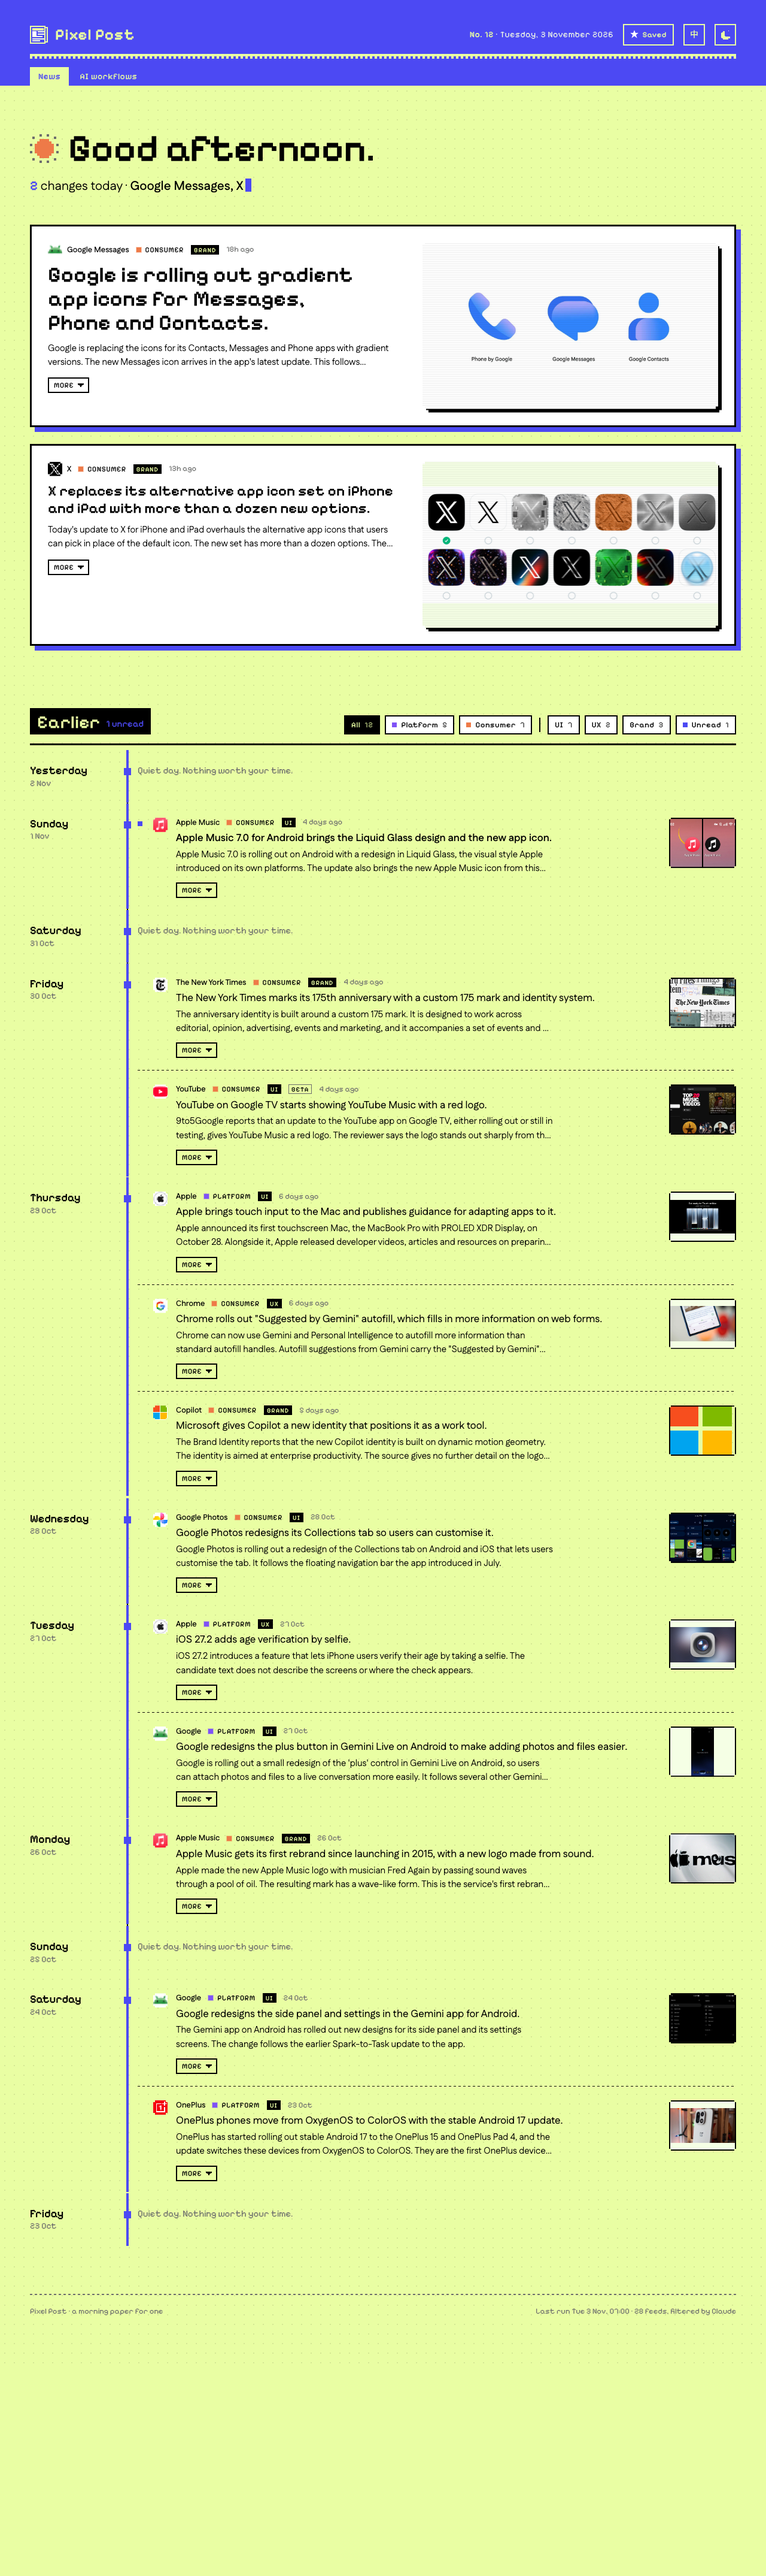
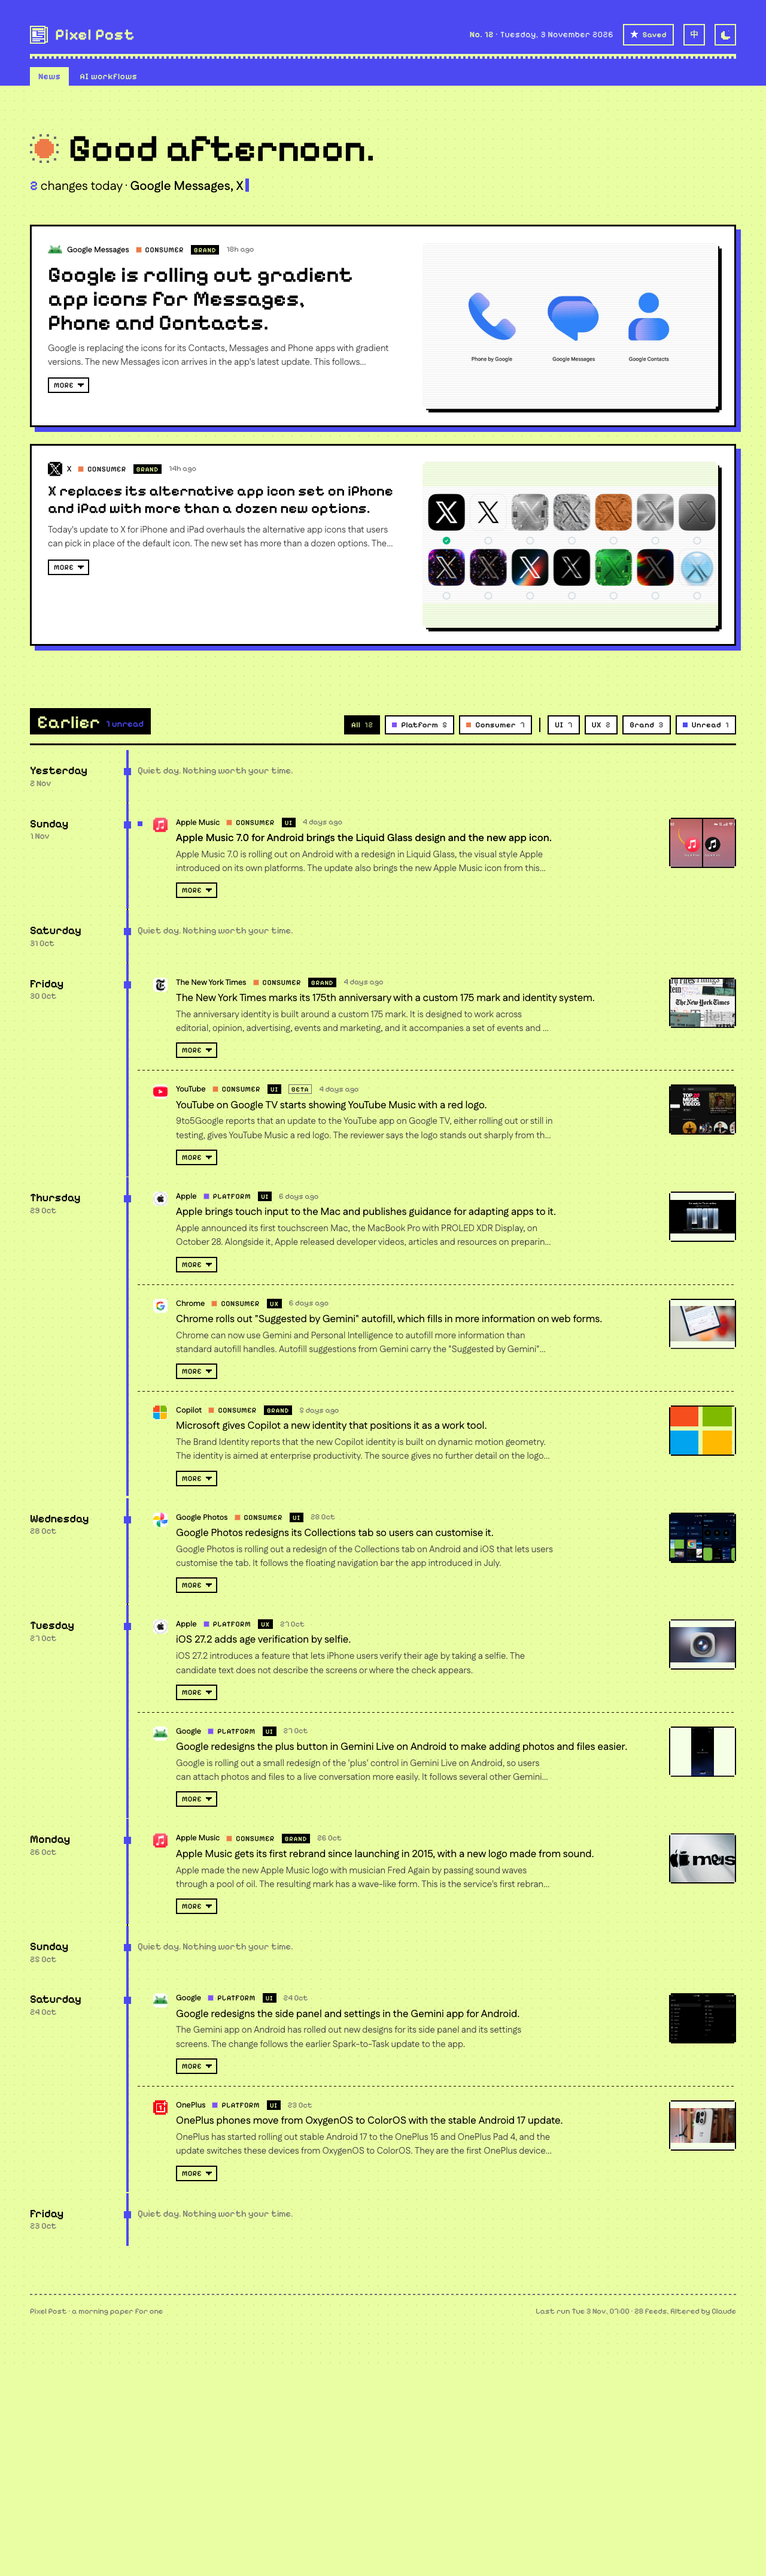
Thinner cursor; white and black reading text instead of lime and green; bigger stars on phones

diff --git a/site/styles.css b/site/styles.css
@@ -3,6 +3,7 @@
    a lime page, an indigo masthead band, black rules and borders, white cards with hard indigo pixel shadows,
    and every story the same card. Dark: black page, lime type and borders, the masthead a lime band with black type,
    the same indigo accent for lines, fills and shadows; small accent labels sit on indigo chips so they stay readable.
+   Reading text is plain black and dark grey in light mode, white and light grey in dark mode.
    All text is at least 4.5:1 against what is behind it. */
 
 :root {
@@ -12,6 +13,8 @@
   --ink: #000000;
   --ink-2: #000000; /* descriptions and summaries */
   --ink-3: #6d6e6d; /* grey: dates, counts, sources. 4.7:1 on lime, 5.1:1 on white */
+  --text: #000000; /* reading text: why it matters, notes */
+  --text-2: #474747; /* summaries and descriptions. 8.5:1 on lime, 9.3:1 on white */
   --line: #000000;
   --accent: #4c49f3; /* indigo, 5.4:1 on lime */
   --accent-ink: var(--accent); /* one accent everywhere: text, cursor, timeline */
@@ -51,6 +54,8 @@
   --ink: #e9fea3; /* lime, 19:1 */
   --ink-2: #f5ffe5; /* cream */
   --ink-3: #9cb8ad; /* sage, 9.9:1 */
+  --text: #ffffff; /* reading text in white, not the lime of headlines */
+  --text-2: #c4c4c4; /* 8:1 on the dark grey cards */
   --line: #e9fea3;
   --accent: #4c49f3; /* indigo, as in light mode: lines, fills, shadows. Too dark for text on black (3.6:1), */
   --accent-ink: #e9fea3; /* so accent labels become indigo chips with lime type, and accent text is lime */
@@ -340,6 +345,7 @@ button {
   font-size: 14px;
   background: var(--card);
   box-shadow: inset 2px 0 0 var(--accent);
+  color: var(--text);
 }
 .note-text[hidden] {
   display: none;
@@ -563,7 +569,7 @@ button {
 .d-why {
   margin: 0;
   font-size: 14px;
-  color: var(--ink-2);
+  color: var(--text-2);
 }
 .d-note {
   margin: 10px 0 0;
@@ -571,6 +577,7 @@ button {
   font-size: 14px;
   background: var(--card);
   box-shadow: inset 2px 0 0 var(--accent);
+  color: var(--text);
 }
 .d-note b {
   margin-right: 8px;
@@ -669,7 +676,7 @@ button {
 }
 .cursor {
   display: inline-block;
-  width: 0.5em;
+  width: 0.3em;
   height: 1.05em;
   margin-left: 3px;
   vertical-align: -0.15em;
@@ -816,7 +823,7 @@ button {
 
 .why {
   margin: 18px 0 0;
-  color: var(--ink);
+  color: var(--text);
   max-width: 40em;
 }
 .why b {
@@ -954,7 +961,7 @@ button {
 .card .what {
   margin: 10px 0 0;
   font-size: 15px;
-  color: var(--ink-2);
+  color: var(--text-2);
 }
 
 
@@ -993,6 +1000,7 @@ button {
 .pattern p {
   margin: 0;
   font: 500 clamp(18px, 2vw, 22px)/1.35 var(--display);
+  color: var(--text);
 }
 .pattern .label {
   display: block;
@@ -1019,7 +1027,7 @@ button {
 .quiet p {
   margin: 0;
   max-width: 34em;
-  color: var(--ink-2);
+  color: var(--text-2);
 }
 .quiet strong {
   display: block;
@@ -1257,12 +1265,12 @@ button {
 .row .what {
   margin: 4px 0 0;
   max-width: 42em;
-  color: var(--ink-2);
+  color: var(--text-2);
   font-size: 15px;
   transition: color 0.2s var(--step);
 }
 .row.open .what {
-  color: var(--ink-2);
+  color: var(--text-2);
 }
 /* Thumbnails get the same black border as the cards. */
 .row-thumb {
@@ -1327,6 +1335,7 @@ button {
   font: 500 15px/1.4 var(--display);
   background: repeating-conic-gradient(color-mix(in srgb, var(--accent) 8%, transparent) 0 25%, transparent 0 50%) 0 0 / 8px 8px;
   box-shadow: inset 0 0 0 1px var(--line);
+  color: var(--text);
 }
 .day-pattern b {
   color: var(--accent-ink);
@@ -1535,7 +1544,7 @@ body[data-view='workflows'] .workflows {
 .wf-facts dd {
   margin: 0;
   font-size: 15px;
-  color: var(--ink);
+  color: var(--text);
 }
 .wf-read {
   display: flex;
@@ -1602,7 +1611,7 @@ html:lang(zh-CN) .view-tab {
 [data-theme='dark'] .d-note b {
   display: inline-block;
   padding: 3px 6px 2px;
-  color: #e9fea3;
+  color: #ffffff;
   background: #4c49f3;
 }
 /* Labels that sit on their own line stay on their own line, as wide as their words. */
@@ -1615,7 +1624,7 @@ html:lang(zh-CN) .view-tab {
 }
 [data-theme='dark'] .hello-summary .count {
   padding: 0 4px;
-  color: #e9fea3;
+  color: #ffffff;
   background: #4c49f3;
 }
 /* "1 unread" sits inside the lime Earlier label: indigo on lime reads at 5.4:1. */
@@ -1711,6 +1720,9 @@ html:lang(zh-CN) .row-title {
   }
   .digest-btn .label {
     display: none;
+  }
+  .star::before {
+    font-size: 18px;
   }
   .digest {
     width: 100vw;

diff --git a/README.md b/README.md
@@ -189,4 +189,4 @@ src/compare.ts        picks each item's picture (and before/after pairs)
 
 **Saved.** Every item has a **star** and a **note**: type it, then **Save note** (inside the box) or Cmd+Enter; the box closes and the note shows under the item, with **Edit note** to change it. The **Saved** button (top right) lists the week's starred items with their notes and a **Remove** button, a week at a time. Stars and notes are kept in your browser only, so they don't follow you to another device. Share links sent before November 2026 still open, read-only.
 
-English by default, with a **中 / EN** switch (top right) that changes everything on the page, including dates and each item's write-up, and is remembered in your browser. Items written before the Chinese write-ups were added (before 30 Oct 2026) stay in English. Light by default, with a dark mode toggle next to it. Each item has a **UI**, **UX** or **Brand** label, and the archive can be filtered by it. Pixelify Sans for headlines, Fustat for reading. Colours come from one palette, used boldly: a lime page (#E9FEA3) with black type and thick black rules; the masthead is an indigo band (#4C49F3) with lime type; every story today is the same white card with a black border and a hard indigo pixel shadow, the first one with a larger headline. A card shows its headline and a two-line summary; More opens why it matters, the sources and Save / Note, with Less at the very end. Buttons and chips are black-bordered, solid black when on. Descriptions are black; dates, counts and sources grey (#6D6E6D). Dark mode turns the masthead over (a lime band with black type) on a black page, with lime type and borders and dark grey cards. It keeps the same indigo accent for the timeline, fills and pixel shadows; since indigo text is too dark on black, its small labels ("Why it matters") become indigo chips with lime type. Category dots: OTA sky, rail green, platform violet, consumer orange. All text meets 4.5:1 contrast in both themes. The variables are at the top of `site/styles.css`; the bold parts (band, cards, buttons) are in its "identity" section. The timeline fills with the accent as you scroll. The logo is a pixel newspaper whose lines print in. Cards, dates and archive rows print in as they scroll into view, and images arrive blocky and sharpen in a few steps; items without an image show their app icon as a pixel mosaic. Unread dots mark items collected since your previous visit (kept in your browser's localStorage) and clear when you open an item. Motion is switched off when your system asks for reduced motion.
+English by default, with a **中 / EN** switch (top right) that changes everything on the page, including dates and each item's write-up, and is remembered in your browser. Items written before the Chinese write-ups were added (before 30 Oct 2026) stay in English. Light by default, with a dark mode toggle next to it. Each item has a **UI**, **UX** or **Brand** label, and the archive can be filtered by it. Pixelify Sans for headlines, Fustat for reading. Colours come from one palette, used boldly: a lime page (#E9FEA3) with black type and thick black rules; the masthead is an indigo band (#4C49F3) with lime type; every story today is the same white card with a black border and a hard indigo pixel shadow, the first one with a larger headline. A card shows its headline and a two-line summary; More opens why it matters, the sources and Save / Note, with Less at the very end. Buttons and chips are black-bordered, solid black when on. Reading text is black (why it matters, notes) and dark grey #474747 (summaries); dates, counts and sources grey (#6D6E6D). In dark mode reading text is white and light grey #C4C4C4, while headlines and buttons stay lime. Dark mode turns the masthead over (a lime band with black type) on a black page, with lime type and borders and dark grey cards. It keeps the same indigo accent for the timeline, fills and pixel shadows; since indigo text is too dark on black, its small labels ("Why it matters") become indigo chips with lime type. Category dots: OTA sky, rail green, platform violet, consumer orange. All text meets 4.5:1 contrast in both themes. The variables are at the top of `site/styles.css`; the bold parts (band, cards, buttons) are in its "identity" section. The timeline fills with the accent as you scroll. The logo is a pixel newspaper whose lines print in. Cards, dates and archive rows print in as they scroll into view, and images arrive blocky and sharpen in a few steps; items without an image show their app icon as a pixel mosaic. Unread dots mark items collected since your previous visit (kept in your browser's localStorage) and clear when you open an item. Motion is switched off when your system asks for reduced motion.
